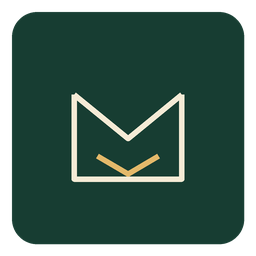
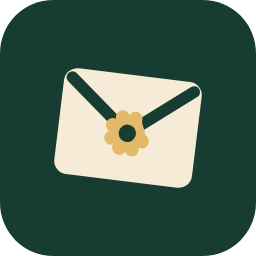
feat(brand): adopt the tilted envelope with a gold cockade
Replace the outline envelope and chevron with the tilted solid envelope and an eight-petal cockade seal. The wordmark keeps its gold i dot. The SVGs, 256 px icon, ICO and attribution hashes are regenerated.

diff --git a/apps/postino-app/src/app.rs b/apps/postino-app/src/app.rs
@@ -7061,26 +7061,71 @@ fn avatar(ui: &mut Ui, size: f32, initials: &str, bg: Color32, fg: Color32) {
     ui.painter().text(rect.center(), Align2::CENTER_CENTER, initials, FontId::new(size * 0.36, theme::medium()), fg);
 }
 
+/// The product mark: a forest tile, a tilted ivory envelope and a gold cockade. The envelope is
+/// drawn as a rotated rounded rectangle so the app and the SVG share one geometry.
 fn logo(ui: &mut Ui, size: f32) {
     let (rect, _) = ui.allocate_exact_size(Vec2::splat(size), Sense::hover());
-    ui.painter().rect_filled(rect, CornerRadius::same(6), theme::FOREST);
-    let inset_x = size * 0.24;
-    let top = rect.top() + size * 0.31;
-    let bottom = rect.bottom() - size * 0.29;
-    let left = rect.left() + inset_x;
-    let right = rect.right() - inset_x;
-    let stroke = Stroke::new((size * 0.045).max(1.2), IVORY);
-    ui.painter().line_segment([egui::pos2(left, top), egui::pos2(left, bottom)], stroke);
-    ui.painter().line_segment([egui::pos2(right, top), egui::pos2(right, bottom)], stroke);
-    ui.painter().line_segment([egui::pos2(left, bottom), egui::pos2(right, bottom)], stroke);
-    let mid = egui::pos2(rect.center().x, top + (bottom - top) * 0.52);
-    ui.painter().line_segment([egui::pos2(left, top), mid], stroke);
-    ui.painter().line_segment([egui::pos2(right, top), mid], stroke);
-    let gold = Stroke::new(stroke.width, GOLD);
-    let chevron_y = bottom - size * 0.02;
-    let half = size * 0.12;
-    ui.painter().line_segment([egui::pos2(rect.center().x - half, chevron_y - size * 0.07), egui::pos2(rect.center().x, chevron_y)], gold);
-    ui.painter().line_segment([egui::pos2(rect.center().x + half, chevron_y - size * 0.07), egui::pos2(rect.center().x, chevron_y)], gold);
+    let radius = (size * 10.0 / 48.0).round() as u8;
+    ui.painter().rect_filled(rect, CornerRadius::same(radius), theme::FOREST);
+    let scale = size / 48.0;
+    let center = rect.center();
+    let angle = 7.0_f32.to_radians();
+    let (sin, cos) = angle.sin_cos();
+    let map = |x: f32, y: f32| {
+        let dx = (x - 24.0) * scale;
+        let dy = (y - 24.0) * scale;
+        pos2(center.x + dx * cos - dy * sin, center.y + dx * sin + dy * cos)
+    };
+    let body = rounded_rect_points(11.0, 14.0, 26.0, 20.0, 2.5).into_iter().map(|point| map(point.x, point.y)).collect::<Vec<_>>();
+    ui.painter().add(egui::Shape::convex_polygon(body, IVORY, Stroke::NONE));
+    let stroke = Stroke::new((size * 2.2 / 48.0).max(1.0), theme::FOREST);
+    ui.painter().line_segment([map(12.5, 15.8), map(24.0, 25.0)], stroke);
+    ui.painter().line_segment([map(24.0, 25.0), map(35.5, 15.8)], stroke);
+    // Eight overlapping gold discs form the scalloped cockade; the forest centre is the embossed
+    // hole of the seal. The SVG path is the same union, so app and asset stay one drawing.
+    let petal_radius = (size * 1.3285 / 48.0).max(0.45);
+    for index in 0..8 {
+        let angle = (22.5 + index as f32 * 45.0).to_radians();
+        let x = 24.0 + 3.2071 * angle.cos();
+        let y = 25.0 + 3.2071 * angle.sin();
+        ui.painter().circle_filled(map(x, y), petal_radius, GOLD);
+    }
+    ui.painter().circle_filled(map(24.0, 25.0), (size * 1.632 / 48.0).max(0.55), theme::FOREST);
+}
+
+/// The wordmark keeps the typeface and paints the dot of the `i` in gold, the brand's small
+/// signature. It stays one text shape, so the shell still paints a single product wordmark.
+fn wordmark(ui: &mut Ui, text: &str, size: f32, color: Color32) {
+    let galley = ui.painter().layout_no_wrap(text.to_owned(), FontId::new(size, theme::display()), color);
+    let (rect, _) = ui.allocate_exact_size(galley.size(), Sense::hover());
+    ui.painter().galley(rect.min, galley.clone(), color);
+    for row in &galley.rows {
+        let Some(glyph) = row.glyphs.iter().find(|glyph| glyph.chr == 'i') else {
+            continue;
+        };
+        let center =
+            pos2(rect.min.x + row.pos.x + glyph.pos.x + glyph.advance_width * 0.5 + size * 0.03, rect.min.y + row.pos.y + glyph.pos.y - size * 0.72);
+        ui.painter().circle_filled(center, size * 0.075, GOLD);
+        break;
+    }
+}
+
+/// A rounded rectangle as a point ring, in the 48 × 48 mark space. Four segments per corner keep
+/// the silhouette smooth at 48 px without a second drawing path.
+fn rounded_rect_points(x: f32, y: f32, w: f32, h: f32, r: f32) -> Vec<egui::Pos2> {
+    let mut points = Vec::with_capacity(24);
+    let steps = 4;
+    let quarter = std::f32::consts::FRAC_PI_2;
+    points.push(pos2(x + r, y));
+    for (cx, cy, start) in
+        [(x + w - r, y + r, -quarter), (x + w - r, y + h - r, 0.0), (x + r, y + h - r, quarter), (x + r, y + r, std::f32::consts::PI)]
+    {
+        for step in 0..=steps {
+            let angle = start + (step as f32 / steps as f32) * quarter;
+            points.push(pos2(cx + r * angle.cos(), cy + r * angle.sin()));
+        }
+    }
+    points
 }
 
 fn format_when(date: DateTime<Utc>, now: DateTime<Utc>) -> String {

diff --git a/apps/postino-app/src/app/shell.rs b/apps/postino-app/src/app/shell.rs
@@ -82,7 +82,7 @@ impl PostinoApp {
                     ui.add_space(space::SM);
                     ui.vertical(|ui| {
                         ui.spacing_mut().item_spacing.y = 0.0;
-                        ui.label(RichText::new("postino").font(FontId::new(15.0, theme::display())).color(t.text));
+                        wordmark(ui, "postino", 15.0, t.text);
                         ui.label(typography::text(Role::Caption, "posta locale", t.text_faint));
                     });
                 });

diff --git a/apps/postino-app/src/app/accounts.rs b/apps/postino-app/src/app/accounts.rs
@@ -957,7 +957,7 @@ impl PostinoApp {
                 logo(ui, 48.0);
                 ui.add_space(8.0);
                 ui.vertical(|ui| {
-                    ui.label(RichText::new("Postino").font(FontId::new(22.0, theme::display())).color(t.text));
+                    wordmark(ui, "Postino", 22.0, t.text);
                     ui.label(RichText::new(format!("Versione {}", env!("CARGO_PKG_VERSION"))).size(11.0).color(t.text_muted));
                 });
             });

diff --git a/docs/design.md b/docs/design.md
@@ -92,23 +92,26 @@ Three panes, keyboard-first:
 
 ## 5. Logo
 
-The mark is a forest tile with an ivory envelope and a gold chevron. It is drawn from primitives in
-the app (`logo()` in `apps/postino-app/src/app.rs`) and shipped as SVG in `assets/brand/`.
+The mark is a forest tile with a tilted ivory envelope and a gold cockade on the flap. It is drawn from
+primitives in the app (`logo()` in `apps/postino-app/src/app.rs`) and shipped as SVG in
+`assets/brand/`.
 
-- **Full colour:** forest tile, ivory envelope, gold chevron. Use on ivory, white or photography
-  with enough contrast.
-- **Inverse:** ivory tile, forest envelope, gold chevron. Use on forest or dark surfaces.
+- **Full colour:** forest tile, ivory envelope, gold cockade. Use on ivory, white or photography with
+  enough contrast.
+- **Inverse:** ivory tile, forest envelope, gold cockade. Use on forest or dark surfaces.
 - **Monochrome:** forest or ivory only; no gold.
-- **Small:** at 16 px the envelope keeps two ivory sides, the bottom and the flap; the gold chevron
-  may disappear. The silhouette must still read as mail.
+- **Small:** at 16 px the cockade collapses to a gold point; the tilted silhouette must still read as
+  mail. The cockade is a seal, not a star: the star is the app's favourite control, never the brand.
 
-Construction: 48 × 48, corner radius 10, stroke 2.4, envelope inset 24% horizontally, flap apex at
-52% of the envelope height, chevron 12% of the tile width per side. Clear space: at least 25% of the
-mark on every side.
+Construction: 48 × 48, tile corner radius 10, envelope 26 × 20 at (11, 14) with a 2.5 corner
+radius, rotated 7° clockwise around the centre, flap stroke 2.2, gold cockade at the flap apex:
+eight semicircular petals of radius 1.33 on a 3.21 radius, forest centre radius 1.63. Clear space:
+at least 25% of the mark on every side.
 
 The wordmark is lowercase **postino**. The dot of the `i` is the brand's small gold signature; it
-may be the only gold element in a monochrome context. Do not set the wordmark in a different colour
-than forest/ivory except for that dot.
+may be the only gold element in a monochrome context. The app paints it in `wordmark()`, keeping the
+text a single shape. Do not set the wordmark in a different colour than forest/ivory except for that
+dot.
 
 ## 6. Components
 

diff --git a/assets/brand/README.md b/assets/brand/README.md
@@ -4,19 +4,21 @@ Original artwork by the Postino contributors, licensed like the code (MIT OR Apa
 
 | File | Use |
 |---|---|
-| `postino-mark.svg` | Full colour on ivory/white/photo with contrast: forest tile, ivory envelope, gold chevron |
-| `postino-mark-inverse.svg` | On forest or dark surfaces: ivory tile, forest envelope, gold chevron |
+| `postino-mark.svg` | Full colour on ivory/white/photo with contrast: forest tile, tilted ivory envelope, gold cockade |
+| `postino-mark-inverse.svg` | On forest or dark surfaces: ivory tile, forest envelope, gold cockade |
 | `postino-mark-mono.svg` | One-colour contexts: forest strokes on a transparent background |
 | `proposta-logo.svg` | The original sketch; kept for reference, not for production |
 
 ## Rules
 
-- Minimum size: 24 px for the full mark; 16 px only if the gold chevron is dropped or the mono
-  version is used.
+- Minimum size: 24 px for the full mark; 16 px only for the mono version or when the cockade may
+  collapse to a gold point.
 - Clear space: at least 25% of the tile on every side.
-- Do not rotate, stretch, outline, recolour or add effects.
+- The envelope is drawn at 7° clockwise; do not rotate the tile or the artwork further, and do not
+  stretch, outline, recolour or add effects.
+- The cockade is a seal, not a star. The star belongs to the favourite control and must not be used
+  as the brand.
 - On a busy photograph, use the full-colour tile; it has its own forest background.
-- The wordmark is lowercase **postino**. The dot of the `i` may be gold; the rest stays forest or
-  ivory.
+- The wordmark is lowercase **postino**. The dot of the `i` is gold; the rest stays forest or ivory.
 
 Palette: forest `#173D32`, ivory `#F5EBD6`, gold `#E4B96A`. Gold on ivory is decorative only.
